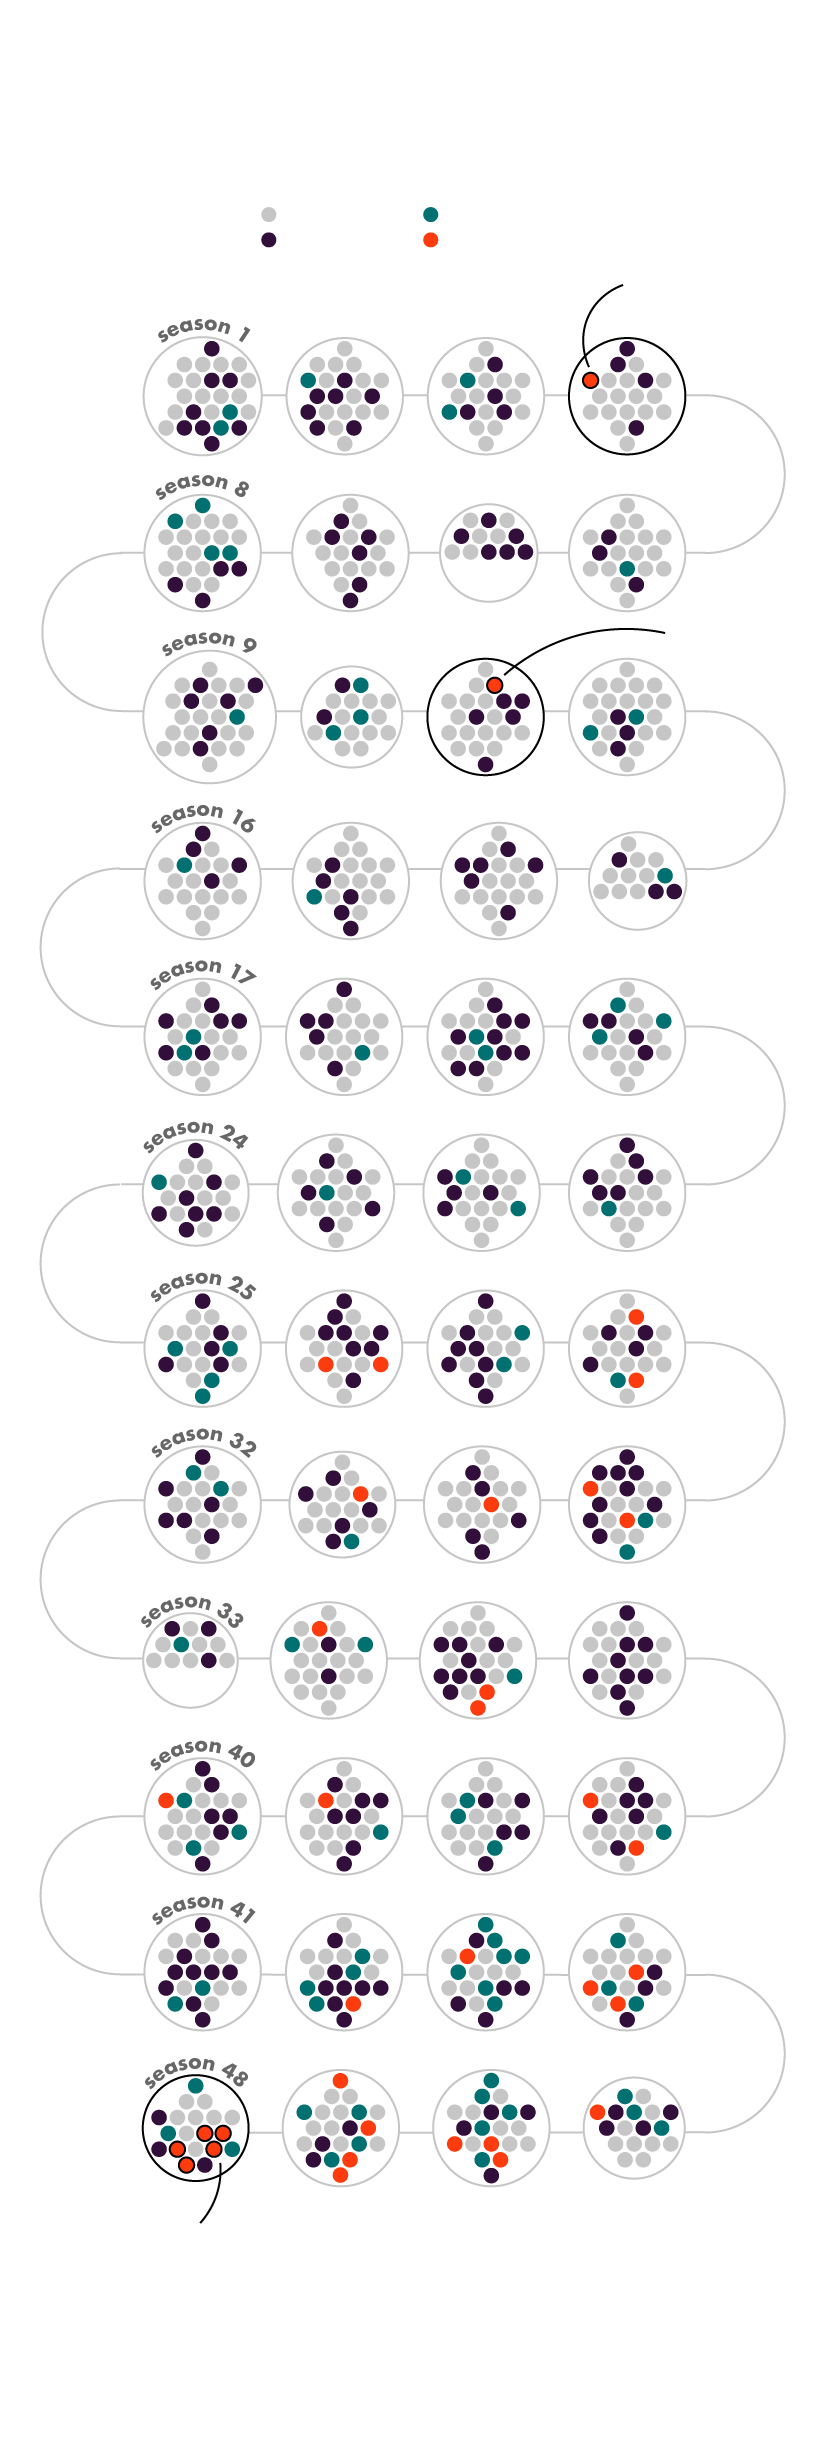
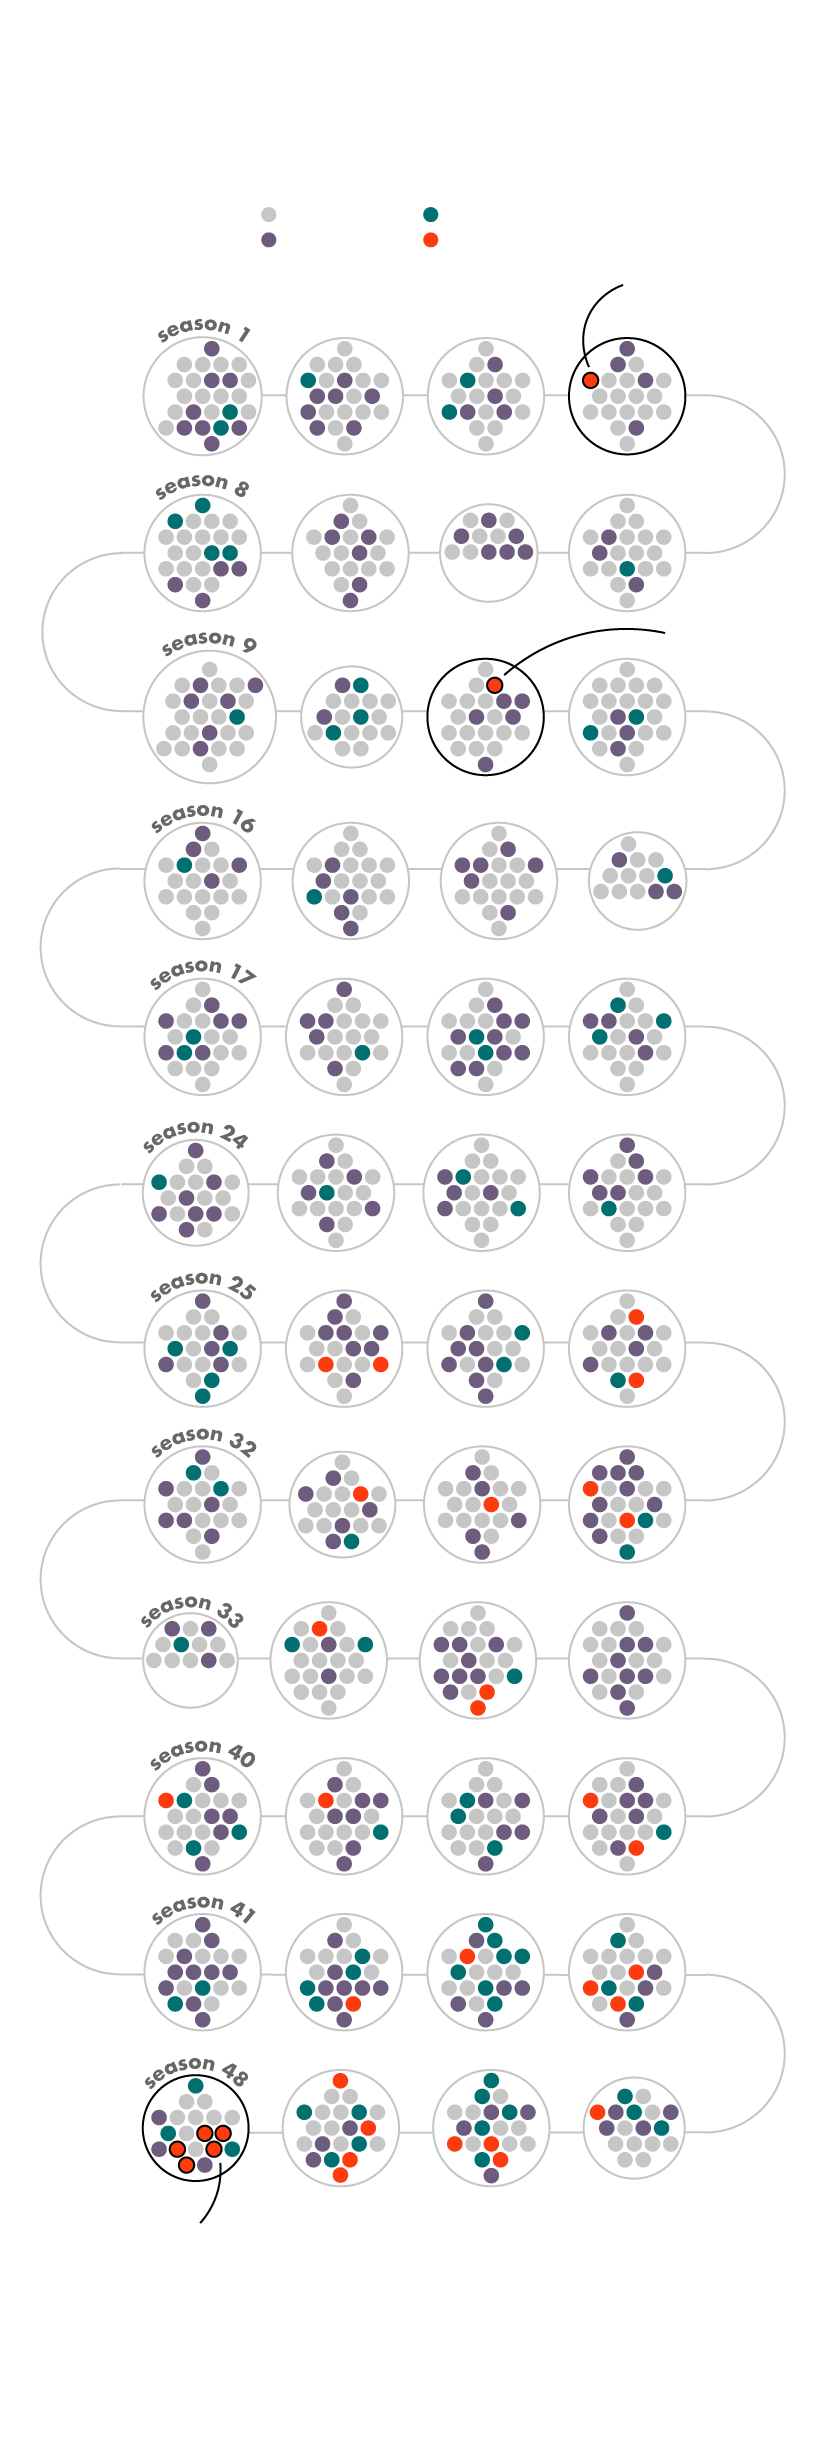
reverting changes

diff --git a/snl-viz.html b/snl-viz.html
@@ -328,4 +328,4 @@
 
 </div>
 
-<!-- End ai2html - 2023-06-01 18:04 -->
+<!-- End ai2html - 2023-06-01 18:25 -->